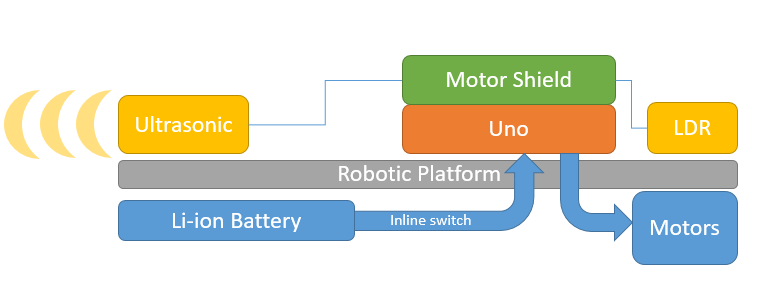
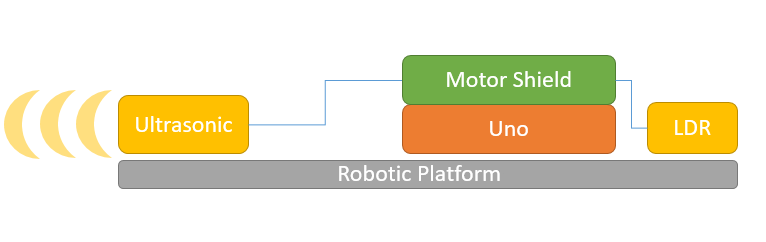
changes

diff --git a/README.md b/README.md
@@ -4,47 +4,39 @@ This clever robot is the perfect way to get started with robotics. The robot exp
 its surroundings as it avoids obstacles and walls in its path. Starting with the
 provided code, the robot can easily be expanded upon.
 
-This is the updated version! codename `Mini-Tesla` - it now has a rechargeable Li-ion battery with an On-Off switch. It also now has a light sensor so it can turn off (or reverse) when it gets into dark places such as under beds or tables, and we use the motor shield to save space on the platform.
-
-There's a lot more that this little robot can do, check out the [Exploration](#Exploration) section for more ideas once you have finished off the build.
+This is the updated version, without the rechargable battery - it also has a light sensor on it to stop moving when it gets into dark places such as under beds or tables, and we use the motor shield to save space on the platform.
 
 ![hero](images/hero.jpg)
 
-## Table of Contents
+There's a lot more that this little robot can do, check out the [Exploration](#Exploration) section for more ideas once you have finished off the build.
 
 - [Wall Dodging Robot](#Wall-Dodging-Robot)
-  - [Table of Contents](#Table-of-Contents)
   - [Bill of Materials](#Bill-of-Materials)
     - [You might also want](#You-might-also-want)
   - [Connection Table](#Connection-Table)
   - [System Overview](#System-Overview)
   - [Assembly](#Assembly)
-    - [USB connector](#USB-connector)
     - [Assembling the Chassis](#Assembling-the-Chassis)
     - [Soldering the motor controller](#Soldering-the-motor-controller)
-    - [Positing components and placing the switch](#Positing-components-and-placing-the-switch)
     - [Connecting the UNO/Motor controller](#Connecting-the-UNOMotor-controller)
     - [Attaching the sensors](#Attaching-the-sensors)
-    - [Quick power test](#Quick-power-test)
   - [Programming](#Programming)
     - [Troubleshooting](#Troubleshooting)
   - [Exploration](#Exploration)
 
 ## Bill of Materials
 
-| Qty | Code                                     | Description                 |
-| --- | ---------------------------------------- | --------------------------- |
-| 1   | [XC4410](https://jaycar.com.au/p/XC4410) | UNO board                   |
-| 1   | [XC4442](https://jaycar.com.au/p/XC4442) | Ultrasonic Sensor           |
-| 1   | [KR3160](https://jaycar.com.au/p/KR3160) | 2 wheeled robotic platform  |
-| 1   | [MB3793](https://jaycar.com.au/p/MB3793) | Rechargeable battery pack   |
-| 1   | [XC4472](https://jaycar.com.au/p/XC4472) | Motor Shield for arduino    |
-| 1   | [PP0790](https://jaycar.com.au/p/PP0790) | USB A bare solder plug      |
-| 1   | [WC7756](https://jaycar.com.au/p/WC7756) | USB Micro extension cable   |
-| 1   | [ST0300](https://jaycar.com.au/p/ST0300) | Mini toggle switch          |
-| 1   | [XC4446](https://jaycar.com.au/p/XC4446) | LDR sensor module           |
-| 1   | [HM3211](https://jaycar.com.au/p/HM3211) | Vertical Header 28pin       |
-| 1   | [WC6026](https://jaycar.com.au/p/WC6026) | Socket socket leads 40 pack |
+| Qty | Code                                     | Description                        |
+| --- | ---------------------------------------- | ---------------------------------- |
+| 1   | [XC4410](https://jaycar.com.au/p/XC4410) | UNO board                          |
+| 1   | [XC4442](https://jaycar.com.au/p/XC4442) | Ultrasonic Sensor                  |
+| 1   | [KR3160](https://jaycar.com.au/p/KR3160) | 2 wheeled robotic platform         |
+| 1   | [XC4472](https://jaycar.com.au/p/XC4472) | Motor Shield for arduino           |
+| 1   | [XC4446](https://jaycar.com.au/p/XC4446) | LDR sensor module                  |
+| 1   | [HM3211](https://jaycar.com.au/p/HM3211) | Vertical Header 28pin              |
+| 1   | [WC6026](https://jaycar.com.au/p/WC6026) | Socket socket leads 40 pack        |
+| 1   | [PH9251](https://jaycar.com.au/p/PH9251) | 9 Volt battery snap to barrel jack |
+| 1   | [SB2916](https://jaycar.com.au/p/SB2916) | 9 Volt battery                     |
 
 ### You might also want
 
@@ -56,7 +48,7 @@ There's a lot more that this little robot can do, check out the [Exploration](#E
 
 ## Connection Table
 
-The motor controller ([XC4472](https://jaycar.com.au/p/XC4472)) fits directly on-top of the uno so you don't have to worry about the pinout of the motor connections. The LDR and ultrasonic sensor ([XC4446](https://jaycar.com.au/p/XC4446) and [XC4442](https://jaycar.com.au/p/XC4442)) connect into the analogue pins on the motor shield, which don't have headers, but we can just solder them in with the [HM3211](https://jaycar.com.au/p/HM3211) vertical headers.
+The motor controller ([XC4472](https://jaycar.com.au/p/XC4472)) fits directly on-top of the uno so you don't have to worry about the pinout of the motor connections. The LDR and ultrasonic sensor ([XC4446](https://jaycar.com.au/p/XC4446) and [XC4442](https://jaycar.com.au/p/XC4442)) connect into the analogue pins on the motor shield, which don't have headers, but we can just solder them in with the [HM3211](https://jaycar.com.au/p/HM3211) vertical headers, as shown later in the assembly section.
 
 | UNO (shield) | Device          |
 | ------------ | --------------- |
@@ -70,59 +62,11 @@ Be sure to connect all of the 5V to the 5V pins, and the GND to GND pins.
 
 ![system](images/system.png)
 
-The overall robotic platform is pretty easy to understand. we are using a battery to power the entire system by jacking into the motor controller. This means we have the most amount of current (which with lithium ion - could be a lot!) goes to the motors when we want it to. The LDR and ultrasonic sensor plug into the motor shield but they actually just get passed and controlled by the UNO underneath.
+The overall robotic platform is pretty easy to understand. The Ultrasonic detects the distance from the robot to an obstacle, and robot will reverse if needed.
 
 ## Assembly
 
-We've broken the assembly instructions into different sections so you can jump around if you need to:
-
-- [USB connector](#USB-connector)
-- [Assembling the Chassis](#Assembling-the-Chassis)
-- [Positing components and placing the switch](#Positing-components-and-placing-the-switch)
-
-### USB connector
-
-Firstly, we'll assemble the USB connector. Looking at what's in the pack you should have 4 pieces as shown below.
-
-![connector](images/connector/connector.jpg)
-
-USB is a common standard so we would do best to follow the standard by looking at what the pin out for a USB connector is, we are focused on "USB A" on the cable side, you can google for this easily:
-
-![standard](images/connector/usb.png)
-
-Flip over the connector, so that the solder tags are facing you, (they have a 'u' shape) and you'll find that the leftmost connector (labelled `4` in the diagram above) is the ground connection. Strip a length of wire (either from [WH3025](https://jaycar.com.au/p/WH3025) or whatever you've got) and twist the wires so they all remain together. Then fill the 'u' shaped channel on the connector with a bit of solder.
-
-![well](images/connector/solder.jpg)
-
-Then, you'll be able to easily place the wire on top of the solder, and heat it through so that it gets absorbed by the melted solder. You can then put some fresh solder over the top so that it's secure in place and completely covered by solder.
-
-![wire](images/connector/place.jpg)
-
-As long as it's secure and there's no stray wires it should be ok. Continue to do the positive side, which is the opposite end of the connector. Here we used an orange colour to signify that it is not ground. It's important not to get the polarity wrong, so some sort of colour scheming should do good.
-
-![positive](images/connector/polarity.jpg)
-
-Then you can clip the small white cover on top, then place it into the large metal connector.
-
-![clip](images/connector/cover.jpg)
-
-You should find that it only goes one way, and it must be flush on the USB connector side, as shown below.
-
-![connector](images/connector/casing.jpg)
-
-Then you can place the other metal casing over it; This metal part "hooks" into it, as shown on the above picture, then it can swing close and become a bit tidy, enclosing everything in the metal housing.
-
-![close the connector](images/connector/close.jpg)
-
-Once it's all together, and snug, you can gently plug it in and test polarity with a multimeter if you want. It's crucial to get the polarity right; while this battery set up has plenty of protection to keep everything safe, not every battery does.
-
-Once it's good, use a pair of pliers to gently wrap up the cable clamps to make it strong and sturdy.
-
-![wrap](images/connector/wrap.jpg)
-
-Then you've finished the USB connector, this will be used to plug into the rechargeable battery later.
-
-![finished](images/connector/finished.jpg)
+We've broken the assembly instructions into different sections so you can jump around if you need to.
 
 ### Assembling the Chassis
 
@@ -136,7 +80,7 @@ We'll do this to both sides, so that they are opposing, with the top screw-mount
 
 You'll find that there's only one real spot where the wheels will actually attach, and you can use the smaller screws to attach the motors to that point.
 
-![positioning motors](images/position.jpg)  
+![positioning motors](images/position.jpg)
 
 The trolley wheel goes near the flat end of the robotic platform, and you can use the broad-headed screws to mount the wheel to the small brass spacers in the kit, like such:
 
@@ -162,40 +106,11 @@ Tack them in and be sure not to short any of the connections. The connectors are
 
 ![fin solder](images/solder3.jpg)
 
-### Positing components and placing the switch
-
-Next up, we'll start positioning the components and building the on-off switch.
-
-Cover the leads of the USB cable that you made previously, and connect both the USB cable and the USB extension into the [MB3793](https://jaycar.com.au/p/MB3793) battery pack. Lay out the components under the robot platform as shown below:
-
-![positioning](images/positioning.jpg)
-
-Here we've pushed the motor cables up and through the platform so they are on top, as well as put the USB extension under the 3rd wheel.
-
-Use hot glue to mount the battery case and the USB extension lead in place, so that the battery pack is fairly centred and the usb lead is flush with the side of the robot, as shown below. Note where the switch will end up when we get to finally placing it.
-
-![switch](images/switch.jpg)
-
-Now you know the length of wire that you need, you can cut and strip a portion of wire so that you don't have too much wire between the battery and the switch, then solder to one of the side terminals on the [ST0300](https://jaycar.com.au/p/ST0300) switch.
-
-![solder](images/solder.jpg)
-
-Use some more black wire (signifying ground) to the middle terminal, and place the switch back in the hole near the 3d wheel. Use a spanner to tighten the top nut of the switch so that it is sitting firmly in place. You won't need the washers on the switch if they make it more difficult to attach.
-
-Bring the new negative wire up through the same hole as the positive from the USB/battery bank. you should now have 6 wires coming to the top portion of the platform, 2 from each motor and the positive/negative from the USB cable in the battery bank.
-
-![upside](images/upside.jpg)
-
 ### Connecting the UNO/Motor controller
 
 Once the motor shield has been soldered and you're happy with it, you can place it on top of the UNO and mount the UNO to the robotic platform. We've found it nicer to mount the uno off to the side a little so that you can still program through the USB-B connector, so we use some double sided tape ([NM2821](https://jaycar.com.au/p/NM2821)) or hot-glue to keep it in place.
 
 ![connecting](images/connecting.jpg)
-
-Connect the motors to the motor ports (M3 and M4) then connect the battery bank leads to the M+ and GND connections on the shield (remember polarity!). We've used bootlace crimps ([PT4433](https://jaycar.com.au/p/PT4433)) to make the connections extra secure as the terminals have something extra to grab on-to, but you could also bend the bare wires back a bit and double up inside of the screw terminal. Trim the wires to size as well, so that there's not too much loose wire hanging around. The polarity of the motors don't really matter, as you can just reverse them in code.
-
-- Make sure that the "EXT_PWR" jumper is also connected so that the UNO feeds power off the motor controller power.
-- If you were powering this off a battery that has more than 12v, you **need** to disconnect this jumper, but this battery is 5v so it is fine.
 
 ### Attaching the sensors
 
@@ -206,10 +121,6 @@ Next is just the ultrasonic and LDR sensors, which can be placed wherever you wi
 You can do any pin out, but our code sample has LDR on `A5`, `TRIG` on `A4` and `ECHO` on `A3`.
 
 We used hot-glue to fix the sensors in position.
-
-### Quick power test
-
-Once everything is connected, you should be able to flick the switch to turn on the battery pack and find the motor controller and UNO lights up. Turn it off again to program. If you plug in a phone charger or otherwise to the side port, the battery bank should shine red to show that it is recharging.
 
 ## Programming
 
